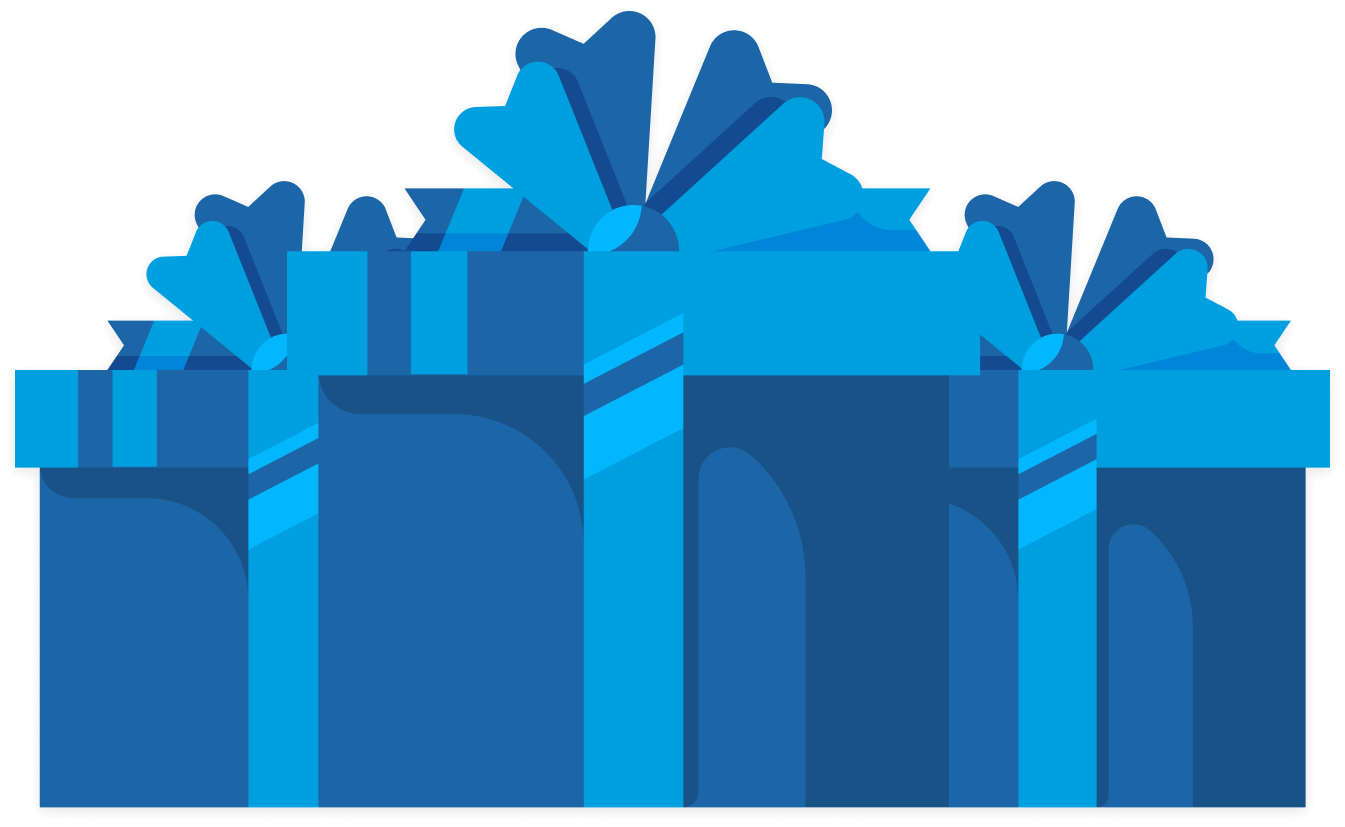
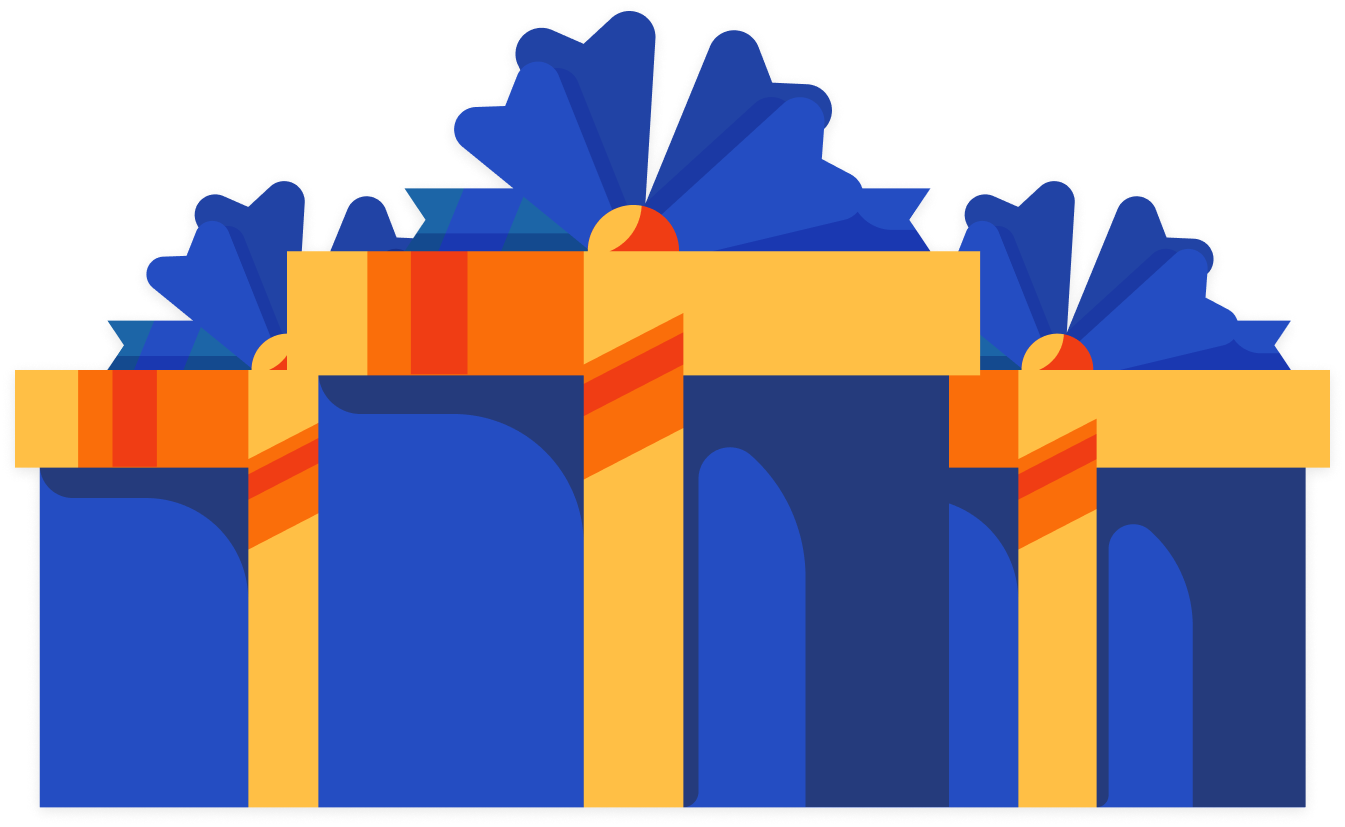
aldi first commit

diff --git a/src/svg.js b/src/svg.js
@@ -25,67 +25,81 @@ export const Machine = (props) => {
   return (
 <svg className="w-30 fade pos-abs" viewBox="0 0 557 851" fill="none" xmlns="http://www.w3.org/2000/svg">
     <g id="machine">
-      <path id="Vector" d="M387 214.6V786.38H412.32C491.9 786.38 556.42 757.23 556.42 721.27V279.71C556.42 243.71 491.9 214.6 412.32 214.6H387Z" fill="#0071CE" />
+      <path id="Vector" d="M387 214.6V786.38H412.32C491.9 786.38 556.42 757.23 556.42 721.27V279.71C556.42 243.71 491.9 214.6 412.32 214.6H387Z" fill="#022999" />
       <g id="Group 71">
-        <path id="Vector_2" d="M466.49 254.098C458.438 263.156 450.386 272.951 442.581 282.205C442.136 282.746 441.889 283.435 441.543 284.026C440.308 287.127 441.247 290.819 443.667 292.886C448.163 292.985 452.51 293.083 457.203 292.886C457.153 292.493 456.808 292.246 456.61 291.902C454.98 289.49 454.98 285.946 456.511 283.534C464.415 273.788 472.566 264.288 480.865 254.541C480.964 254.443 481.112 254.197 480.865 254.098C478.79 254.148 476.715 254.098 474.641 254.049C473.06 254.049 471.528 254 470.046 254C468.861 254 467.675 254 466.49 254.098Z" fill="#00539F" />
-        <path id="Vector_3" d="M475.049 263.122L475 263.606L485.628 276.272C487.704 278.883 490.076 281.252 491.905 284.008C493.24 286.763 492.745 290.438 490.768 292.807L490.818 293H504.016C504.856 292.855 505.301 291.985 505.894 291.356C507.327 288.842 507.426 285.361 505.844 282.944C498.133 273.662 490.274 264.234 482.464 255.048L482.118 255L475.049 263.122Z" fill="#00A0E0" />
-        <path id="Vector_4" d="M469.627 272.351C467.352 277.307 471.847 280.973 473.9 285C475.176 282.418 477.84 280.198 478.616 277.307C480.226 272.918 476.397 269.408 474.066 266C472.512 268.065 470.737 270.13 469.627 272.351Z" fill="#00539F" />
-        <path id="Vector_5" d="M461.87 280C461.323 280 460.776 280 460.229 280L460.08 280.099C459.881 281.73 460.03 283.46 460.776 284.943C462.466 288.255 465.946 289.738 469.624 289.342C471.613 289.639 473.353 291.072 473.8 293C474.397 291.962 475.092 290.43 476.435 289.886C478.97 288.798 482.35 289.836 484.488 288.008C487.172 286.327 488.514 283.114 487.818 280.099C487.122 280.099 486.377 280.099 485.681 280.049C483.096 280 480.411 279.901 478.423 281.335C476.186 282.62 474.745 284.795 473.949 287.118C473.204 285.091 471.961 282.966 470.122 281.73C468.233 280.247 465.797 280.049 463.311 280.049C462.864 280 462.367 280 461.87 280Z" fill="#00539F" />
+        <path id="Vector_2" d="M451.834 247.808C451.834 246.814 452.648 246 453.642 246H495.359C496.367 246 497.167 246.814 497.167 247.808V298.592C497.167 299.599 496.354 300.4 495.359 300.4H453.642C452.635 300.4 451.834 299.586 451.834 298.592V247.808Z" fill="#FFBF45" />
+        <path id="Vector_3" d="M455.914 250.314C455.914 249.81 456.314 249.41 456.818 249.41H492.194C492.697 249.41 493.098 249.81 493.098 250.314V296.112C493.098 296.616 492.697 297.016 492.194 297.016H456.818C456.314 297.016 455.914 296.616 455.914 296.112V250.314Z" fill="#FA6E0A" />
+        <path id="Vector_4" d="M457.955 251.218C457.955 250.973 458.162 250.766 458.407 250.766H490.605C490.851 250.766 491.057 250.973 491.057 251.218V295.208C491.057 295.454 490.851 295.66 490.605 295.66H458.407C458.162 295.66 457.955 295.454 457.955 295.208V251.218Z" fill="#F03D14" />
+        <path id="Vector_5" d="M459.091 251.67C459.091 251.541 459.194 251.438 459.324 251.438H489.701C489.83 251.438 489.933 251.541 489.933 251.67V294.743C489.933 294.872 489.83 294.976 489.701 294.976H459.311C459.181 294.976 459.078 294.872 459.078 294.743V251.67H459.091Z" fill="#001F78" />
+        <path id="Vector_6" d="M487.428 252.806H461.584V278.65H487.428V252.806Z" fill="#00B5DB" />
+        <path id="Vector_7" d="M486.304 253.478H462.721V277.966H486.304V253.478Z" fill="#001F78" />
+        <path id="Vector_8" d="M487.223 282.047H484.407V290.235H487.223V282.047ZM480.558 286.141C480.558 287.717 480.519 288.466 479.615 288.466H479.383V283.842H479.615C480.519 283.829 480.558 284.591 480.558 286.141ZM483.387 286.141C483.387 282.163 482.043 282.06 479.189 282.06H476.567V290.248H479.189C482.056 290.235 483.387 290.119 483.387 286.141ZM475.728 290.235L475.457 288.014H473.429V282.047H470.613V290.235H475.728ZM469.942 290.235L467.578 282.047H464.078L461.676 290.235H464.491L464.711 289.292H466.687L466.919 290.235H469.942ZM466.351 287.562H465.047L465.692 284.243L466.351 287.562Z" fill="white" />
+        <path id="Vector_9" d="M471.233 277.294H469.773L476.27 254.163H477.742L471.233 277.294Z" fill="#00B5DB" />
+        <path id="Vector_10" d="M468.793 277.294H467.32L473.817 254.163H475.289L468.793 277.294Z" fill="#00B5DB" />
+        <path id="Vector_11" d="M466.338 277.294H464.865L471.375 254.163H472.847L466.338 277.294Z" fill="#00B5DB" />
+        <path id="Vector_12" d="M474.307 269.803L474.694 268.447H484.936V269.803H474.307Z" fill="#00B5DB" />
+        <path id="Vector_13" d="M474.953 267.543L475.328 266.174H484.937V267.543H474.953Z" fill="#00B5DB" />
+        <path id="Vector_14" d="M473.674 272.077L474.048 270.708H484.936V272.077H473.674Z" fill="#00B5DB" />
       </g>
-      <path id="Vector 2" opacity="0.25" d="M395.581 761.24H387.191V242.66C389.531 248.88 392.391 253.4 395.581 255.49V761.24Z" fill="white" />
-      <path id="Vector 3" opacity="0.25" d="M544 276.33V292.89C544 262.24 489 237.39 421.19 237.39H399.57V220.84H421.14C488.94 220.84 544 245.67 544 276.33Z" fill="#F7F9FF" />
+      <path id="Vector 2" opacity="0.25" d="M395.579 761.24H387.189V242.66C389.529 248.88 392.389 253.4 395.579 255.49V761.24Z" fill="#00B5DB" />
+      <path id="Vector 3" opacity="0.25" d="M544 276.33V292.89C544 262.24 489 237.39 421.19 237.39H399.57V220.84H421.14C488.94 220.84 544 245.67 544 276.33Z" fill="#00B5DB" />
       <path id="Vector 4" opacity="0.25" d="M556.44 696.13V721.27C556.44 757.27 491.92 786.38 412.34 786.38H387V761.24H412.32C491.92 761.24 556.44 732.1 556.44 696.13Z" fill="#181818" />
       <path id="Vector 5" opacity="0.25" d="M556.44 696.13V721.27C556.44 757.27 491.92 786.38 412.34 786.38H387V761.24H412.32C491.92 761.24 556.44 732.1 556.44 696.13Z" fill="#181818" />
-      <path id="Vector 6" opacity="0.25" d="M541.69 311.48C544.83 311.48 547.37 309.42 547.37 306.88C547.37 304.34 544.83 302.29 541.69 302.29C538.55 302.29 536.02 304.35 536.02 306.88C536.02 309.41 538.56 311.48 541.69 311.48Z" fill="#F7F9FF" />
-      <path id="dropHeight" d="M478.391 313.38H468.801V687.58H478.391V313.38Z" fill="#00579F" />
+      <path id="Vector 6" opacity="0.25" d="M541.69 306.19C544.83 306.19 547.37 304.13 547.37 301.59C547.37 299.05 544.83 297 541.69 297C538.55 297 536.02 299.06 536.02 301.59C536.02 304.12 538.56 306.19 541.69 306.19Z" fill="#00B5DB" />
+      <path id="dropHeight" d="M478.391 313.38H468.801V687.58H478.391V313.38Z" fill="#001F78" />
       <g id="pull" className="hov trans" onClick={ctr === 1 ? clicked : undefined}>
-        <path id="Vector 7" d="M544.71 332.31V365.14C544.72 365.303 544.72 365.467 544.71 365.63V366.47C544.37 371.369 542.179 375.955 538.582 379.297C534.985 382.64 530.251 384.489 525.34 384.47H427.34C422.455 384.482 417.746 382.645 414.158 379.328C410.571 376.012 408.371 371.461 408 366.59C408 366.18 408 365.76 408 365.35V332.35C408.004 329.803 408.51 327.282 409.489 324.931C410.467 322.58 411.9 320.445 413.705 318.648C415.509 316.851 417.65 315.427 420.005 314.458C422.36 313.489 424.883 312.993 427.43 313H525.32C530.449 313.005 535.367 315.04 539 318.66C542.633 322.28 544.686 327.191 544.71 332.32V332.31Z" fill="#51678D" />
-        <path id="Vector 8" d="M542.269 329.76V361.5C542.289 361.656 542.289 361.814 542.269 361.97V362.79C541.929 367.503 539.822 371.913 536.37 375.14C532.917 378.366 528.374 380.17 523.649 380.19H429.429C424.724 380.17 420.198 378.382 416.749 375.181C413.3 371.98 411.18 367.601 410.809 362.91C410.809 362.51 410.809 362.11 410.809 361.71V329.76C410.806 327.296 411.29 324.855 412.232 322.578C413.174 320.301 414.555 318.231 416.298 316.489C418.04 314.746 420.11 313.365 422.387 312.423C424.664 311.481 427.105 310.997 429.569 311H523.569C528.536 311.013 533.295 312.996 536.802 316.512C540.309 320.029 542.279 324.793 542.279 329.76H542.269Z" fill="#00A0E0" />
-        <path id="Vector 9" d="M533.322 319.32C531.073 317.122 528.047 315.9 524.902 315.92H428.112C426.537 315.888 424.971 316.163 423.502 316.73C421.29 317.59 419.382 319.086 418.021 321.03C416.659 322.973 415.904 325.277 415.852 327.65V365.16C415.863 366.176 416.014 367.186 416.302 368.16C416.835 369.986 417.795 371.658 419.102 373.04C420.243 374.259 421.625 375.227 423.161 375.881C424.697 376.535 426.353 376.862 428.022 376.84H524.802C527.434 376.853 530 376.011 532.112 374.44C532.723 373.992 533.286 373.483 533.792 372.92C535.064 371.561 536.002 369.924 536.532 368.14C536.811 367.165 536.953 366.155 536.952 365.14V327.65C536.881 324.505 535.577 321.513 533.322 319.32ZM534.532 362.7C534.527 364.411 534.137 366.099 533.392 367.64C532.647 369.193 531.564 370.56 530.222 371.64C527.992 373.424 525.218 374.391 522.362 374.38H430.622C427.728 374.383 424.921 373.39 422.672 371.57C421.34 370.501 420.264 369.148 419.522 367.61C418.78 366.072 418.39 364.388 418.382 362.68V330.06C418.419 327.667 419.187 325.342 420.583 323.397C421.979 321.452 423.936 319.981 426.192 319.18C427.596 318.671 429.078 318.411 430.572 318.41H522.322C523.803 318.41 525.272 318.67 526.662 319.18C528.938 319.972 530.915 321.446 532.324 323.402C533.732 325.357 534.503 327.7 534.532 330.11V362.7Z" fill="#51678D" />
-        <path id="Vector 10" opacity="0.3" d="M539.499 326.26V329.15C539.575 325.705 538.28 322.371 535.899 319.88C534.721 318.645 533.311 317.656 531.749 316.97C530.187 316.283 528.505 315.913 526.799 315.88H426.209C424.502 315.915 422.818 316.286 421.254 316.972C419.69 317.658 418.277 318.645 417.095 319.878C415.913 321.11 414.985 322.563 414.365 324.154C413.744 325.745 413.443 327.443 413.479 329.15V326.26C413.409 322.814 414.711 319.481 417.098 316.994C419.486 314.508 422.763 313.071 426.209 313H526.799C530.242 313.079 533.513 314.52 535.894 317.008C538.275 319.496 539.571 322.827 539.499 326.27V326.26Z" fill="#F7F9FF" />
-        <path id="Vector 11" opacity="0.15" d="M541.929 363.18C541.586 367.891 539.478 372.299 536.026 375.523C532.574 378.747 528.033 380.55 523.309 380.57H429.179C424.474 380.55 419.948 378.762 416.499 375.561C413.05 372.36 410.93 367.981 410.559 363.29C410.85 365.726 411.957 367.992 413.699 369.72C415.505 371.57 417.813 372.849 420.339 373.4C421.457 373.684 422.606 373.825 423.759 373.82H528.759C529.911 373.822 531.059 373.688 532.179 373.42C534.717 372.864 537.034 371.569 538.839 369.7C540.574 367.933 541.672 365.639 541.959 363.18H541.929Z" fill="#212121" />
-        <path id="Vector 12" d="M443.612 356.77C442.205 356.441 440.87 355.859 439.672 355.05L441.672 350.65C442.702 351.298 443.816 351.803 444.982 352.15C446.178 352.533 447.426 352.729 448.682 352.73C451.032 352.73 452.132 352.15 452.132 351C452.125 350.698 452.027 350.406 451.852 350.16C451.675 349.917 451.427 349.735 451.142 349.64C450.116 349.247 449.059 348.94 447.982 348.72C446.624 348.448 445.288 348.08 443.982 347.62C442.922 347.231 441.978 346.577 441.242 345.72C440.425 344.74 440.013 343.484 440.092 342.21C440.078 340.957 440.444 339.73 441.142 338.69C441.936 337.578 443.038 336.723 444.312 336.23C445.957 335.571 447.721 335.258 449.492 335.31C450.872 335.316 452.247 335.474 453.592 335.78C454.852 336.061 456.062 336.529 457.182 337.17L455.332 341.62C453.52 340.597 451.482 340.04 449.402 340C448.502 339.937 447.602 340.124 446.802 340.54C446.556 340.679 446.35 340.879 446.202 341.12C446.06 341.363 445.984 341.639 445.982 341.92C445.989 342.205 446.083 342.481 446.252 342.71C446.43 342.935 446.67 343.102 446.942 343.19C447.96 343.581 449.011 343.878 450.082 344.08C451.442 344.341 452.78 344.709 454.082 345.18C455.142 345.577 456.091 346.222 456.852 347.06C457.676 348.037 458.095 349.293 458.022 350.57C458.039 351.79 457.683 352.987 457.002 354C456.186 355.071 455.078 355.883 453.812 356.34C452.189 357.015 450.439 357.336 448.682 357.28C447 357.324 445.32 357.153 443.682 356.77H443.612Z" fill="white" />
+        <path id="Vector 7" d="M544.71 332.31V365.14C544.72 365.303 544.72 365.467 544.71 365.63V366.47C544.37 371.369 542.179 375.955 538.582 379.297C534.985 382.64 530.251 384.489 525.34 384.47H427.34C422.455 384.482 417.746 382.645 414.158 379.328C410.571 376.012 408.371 371.461 408 366.59C408 366.18 408 365.76 408 365.35V332.35C408.004 329.803 408.51 327.282 409.489 324.931C410.467 322.58 411.9 320.445 413.705 318.648C415.509 316.851 417.65 315.427 420.005 314.458C422.36 313.489 424.883 312.993 427.43 313H525.32C530.449 313.005 535.367 315.04 539 318.66C542.633 322.28 544.686 327.191 544.71 332.32V332.31Z" fill="#FFBF45" />
+        <path id="Vector 8" d="M542.271 329.76V361.5C542.291 361.656 542.291 361.814 542.271 361.97V362.79C541.931 367.503 539.824 371.913 536.372 375.14C532.919 378.366 528.376 380.17 523.651 380.19H429.431C424.726 380.17 420.2 378.382 416.751 375.181C413.302 371.98 411.182 367.601 410.811 362.91C410.811 362.51 410.811 362.11 410.811 361.71V329.76C410.808 327.296 411.292 324.855 412.234 322.578C413.176 320.301 414.557 318.231 416.3 316.489C418.042 314.746 420.112 313.365 422.389 312.423C424.666 311.481 427.107 310.997 429.571 311H523.571C528.538 311.013 533.297 312.996 536.804 316.512C540.311 320.029 542.281 324.793 542.281 329.76H542.271Z" fill="#001F78" />
+        <path id="Vector 9" d="M533.32 319.32C531.071 317.122 528.045 315.9 524.9 315.92H428.11C426.535 315.888 424.969 316.163 423.5 316.73C421.288 317.59 419.38 319.086 418.019 321.03C416.657 322.973 415.902 325.277 415.85 327.65V365.16C415.861 366.176 416.012 367.186 416.3 368.16C416.833 369.986 417.793 371.658 419.1 373.04C420.241 374.259 421.623 375.227 423.159 375.881C424.695 376.535 426.351 376.862 428.02 376.84H524.8C527.432 376.853 529.998 376.011 532.11 374.44C532.721 373.992 533.284 373.483 533.79 372.92C535.062 371.561 536 369.924 536.53 368.14C536.809 367.165 536.951 366.155 536.95 365.14V327.65C536.879 324.505 535.575 321.513 533.32 319.32ZM534.53 362.7C534.525 364.411 534.135 366.099 533.39 367.64C532.645 369.193 531.562 370.56 530.22 371.64C527.99 373.424 525.216 374.391 522.36 374.38H430.62C427.726 374.383 424.919 373.39 422.67 371.57C421.338 370.501 420.262 369.148 419.52 367.61C418.778 366.072 418.388 364.388 418.38 362.68V330.06C418.417 327.667 419.185 325.342 420.581 323.397C421.977 321.452 423.934 319.981 426.19 319.18C427.594 318.671 429.076 318.411 430.57 318.41H522.32C523.801 318.41 525.27 318.67 526.66 319.18C528.936 319.972 530.913 321.446 532.322 323.402C533.73 325.357 534.501 327.7 534.53 330.11V362.7Z" fill="#FFBF45" />
+        <path id="Vector 10" opacity="0.3" d="M539.499 326.26V329.15C539.575 325.705 538.28 322.371 535.899 319.88C534.721 318.645 533.311 317.656 531.749 316.97C530.187 316.283 528.505 315.913 526.799 315.88H426.209C424.502 315.915 422.818 316.286 421.254 316.972C419.69 317.658 418.277 318.645 417.095 319.878C415.913 321.11 414.985 322.563 414.365 324.154C413.744 325.745 413.443 327.443 413.479 329.15V326.26C413.409 322.814 414.711 319.481 417.098 316.994C419.486 314.508 422.763 313.071 426.209 313H526.799C530.242 313.079 533.513 314.52 535.894 317.008C538.275 319.496 539.571 322.827 539.499 326.27V326.26Z" fill="white" />
+        <path id="Vector 11" opacity="0.15" d="M541.931 363.18C541.588 367.891 539.48 372.299 536.028 375.523C532.576 378.747 528.035 380.55 523.311 380.57H429.181C424.476 380.55 419.95 378.762 416.501 375.561C413.052 372.36 410.932 367.981 410.561 363.29C410.852 365.726 411.959 367.992 413.701 369.72C415.507 371.57 417.815 372.849 420.341 373.4C421.459 373.684 422.608 373.825 423.761 373.82H528.761C529.913 373.822 531.061 373.688 532.181 373.42C534.719 372.864 537.036 371.569 538.841 369.7C540.576 367.933 541.674 365.639 541.961 363.18H541.931Z" fill="#212121" />
+        <path id="Vector 12" d="M443.61 356.77C442.203 356.441 440.868 355.859 439.67 355.05L441.67 350.65C442.7 351.298 443.814 351.803 444.98 352.15C446.176 352.533 447.424 352.729 448.68 352.73C451.03 352.73 452.13 352.15 452.13 351C452.123 350.698 452.025 350.406 451.85 350.16C451.673 349.917 451.425 349.735 451.14 349.64C450.114 349.247 449.057 348.94 447.98 348.72C446.622 348.448 445.286 348.08 443.98 347.62C442.92 347.231 441.976 346.577 441.24 345.72C440.423 344.74 440.011 343.484 440.09 342.21C440.076 340.957 440.442 339.73 441.14 338.69C441.934 337.578 443.036 336.723 444.31 336.23C445.955 335.571 447.719 335.258 449.49 335.31C450.87 335.316 452.245 335.474 453.59 335.78C454.85 336.061 456.06 336.529 457.18 337.17L455.33 341.62C453.518 340.597 451.48 340.04 449.4 340C448.5 339.937 447.6 340.124 446.8 340.54C446.554 340.679 446.348 340.879 446.2 341.12C446.058 341.363 445.982 341.639 445.98 341.92C445.987 342.205 446.081 342.481 446.25 342.71C446.428 342.935 446.668 343.102 446.94 343.19C447.958 343.581 449.009 343.878 450.08 344.08C451.44 344.341 452.778 344.709 454.08 345.18C455.14 345.577 456.089 346.222 456.85 347.06C457.674 348.037 458.093 349.293 458.02 350.57C458.037 351.79 457.681 352.987 457 354C456.184 355.071 455.076 355.883 453.81 356.34C452.187 357.015 450.437 357.336 448.68 357.28C446.998 357.324 445.318 357.153 443.68 356.77H443.61Z" fill="white" />
         <path id="Vector 13" d="M478.759 339.44C478.639 339.26 478.519 339.09 478.389 338.92C477.63 337.946 476.635 337.182 475.499 336.7C473.92 336.022 472.217 335.681 470.499 335.7H460.789V357H466.789V351.44H470.449C472.168 351.472 473.874 351.131 475.449 350.44C476.582 349.962 477.576 349.205 478.339 348.24C478.471 348.08 478.595 347.913 478.709 347.74C479.472 346.487 479.876 345.047 479.876 343.58C479.876 342.113 479.472 340.673 478.709 339.42L478.759 339.44ZM473.649 344.82C473.489 345.227 473.239 345.592 472.919 345.89C472.114 346.443 471.142 346.698 470.169 346.61H466.819V340.38H470.129C471.127 340.311 472.117 340.602 472.919 341.2C473.242 341.496 473.491 341.862 473.649 342.27C473.808 342.674 473.88 343.107 473.859 343.54C473.891 343.977 473.819 344.416 473.649 344.82Z" fill="white" />
         <path id="Vector 14" d="M482.84 335.73H488.84V357H482.84V335.73Z" fill="white" />
-        <path id="Vector 15" d="M513.312 335.73V357H508.372L499.002 345.65V357H493.102V335.73H498.052L507.432 347.06V335.73H513.312Z" fill="white" />
+        <path id="Vector 15" d="M513.31 335.73V357H508.37L499 345.65V357H493.1V335.73H498.05L507.43 347.06V335.73H513.31Z" fill="white" />
       </g>
-      <path id="Vector_2_2" d="M387.47 214.6C383.454 196.533 373.398 180.375 358.96 168.793C344.523 157.212 326.568 150.9 308.06 150.9H81.34C59.769 150.9 39.0814 159.468 23.8275 174.72C8.57355 189.972 0.00265195 210.659 0 232.23V768.77C0.00265195 790.341 8.57355 811.028 23.8275 826.28C39.0814 841.532 59.769 850.1 81.34 850.1H308.06C318.744 850.113 329.326 848.018 339.199 843.936C349.073 839.853 358.044 833.863 365.598 826.308C373.153 818.754 379.143 809.783 383.226 799.909C387.308 790.036 389.403 779.454 389.39 768.77V232.23C389.395 226.301 388.751 220.389 387.47 214.6ZM343.65 757.94C343.65 787.29 320.86 811.04 292.72 811.04H96.72C68.58 811.04 45.79 787.29 45.79 757.94V510.39L60.49 495.69L45.79 481V245.36C45.79 216.03 68.6 192.26 96.72 192.26H292.72C320.86 192.26 343.65 216.03 343.65 245.36V757.94Z" fill="#0071CE" />
-      <path id="Vector 17" opacity="0.2" d="M351.562 214.79C347.403 204.722 340.348 196.116 331.291 190.063C322.235 184.01 311.585 180.783 300.692 180.79H88.7419C81.5092 180.79 74.3473 182.215 67.6653 184.983C60.9832 187.751 54.9119 191.808 49.798 196.923C44.6842 202.038 40.628 208.11 37.861 214.793C35.0941 221.475 33.6706 228.637 33.6719 235.87V767.43C33.6706 774.663 35.0941 781.825 37.861 788.507C40.628 795.19 44.6842 801.262 49.798 806.377C54.9119 811.492 60.9832 815.549 67.6653 818.317C74.3473 821.085 81.5092 822.51 88.7419 822.51H300.742C307.974 822.509 315.135 821.083 321.816 818.314C328.497 815.545 334.567 811.488 339.679 806.373C344.792 801.259 348.848 795.187 351.614 788.505C354.38 781.823 355.803 774.662 355.802 767.43V235.87C355.789 228.633 354.349 221.469 351.562 214.79ZM343.652 757.94C343.652 787.29 320.862 811.04 292.722 811.04H96.7219C68.5819 811.04 45.7919 787.29 45.7919 757.94V245.36C45.7919 216.03 68.6019 192.26 96.7219 192.26H292.722C320.862 192.26 343.652 216.03 343.652 245.36V757.94Z" fill="white" />
+      <path id="Vector_2_2" d="M387.47 214.6C383.454 196.533 373.398 180.375 358.96 168.793C344.523 157.212 326.568 150.9 308.06 150.9H81.34C59.769 150.9 39.0814 159.468 23.8275 174.72C8.57355 189.972 0.00265195 210.659 0 232.23V768.77C0.00265195 790.341 8.57355 811.028 23.8275 826.28C39.0814 841.532 59.769 850.1 81.34 850.1H308.06C318.744 850.113 329.326 848.018 339.199 843.936C349.073 839.853 358.044 833.863 365.598 826.308C373.153 818.754 379.143 809.783 383.226 799.909C387.308 790.036 389.403 779.454 389.39 768.77V232.23C389.395 226.301 388.751 220.389 387.47 214.6ZM343.65 757.94C343.65 787.29 320.86 811.04 292.72 811.04H96.72C68.58 811.04 45.79 787.29 45.79 757.94V510.39L60.49 495.69L45.79 481V245.36C45.79 216.03 68.6 192.26 96.72 192.26H292.72C320.86 192.26 343.65 216.03 343.65 245.36V757.94Z" fill="#022999" />
+      <path id="Vector 17" opacity="0.2" d="M351.56 214.79C347.401 204.722 340.346 196.116 331.289 190.063C322.233 184.01 311.583 180.783 300.69 180.79H88.7399C81.5072 180.79 74.3453 182.215 67.6633 184.983C60.9812 187.751 54.9099 191.808 49.796 196.923C44.6822 202.038 40.626 208.11 37.859 214.793C35.0921 221.475 33.6686 228.637 33.6699 235.87V767.43C33.6686 774.663 35.0921 781.825 37.859 788.507C40.626 795.19 44.6822 801.262 49.796 806.377C54.9099 811.492 60.9812 815.549 67.6633 818.317C74.3453 821.085 81.5072 822.51 88.7399 822.51H300.74C307.972 822.509 315.133 821.083 321.814 818.314C328.495 815.545 334.565 811.488 339.677 806.373C344.79 801.259 348.846 795.187 351.612 788.505C354.378 781.823 355.801 774.662 355.8 767.43V235.87C355.787 228.633 354.347 221.469 351.56 214.79ZM343.65 757.94C343.65 787.29 320.86 811.04 292.72 811.04H96.7199C68.5799 811.04 45.7899 787.29 45.7899 757.94V245.36C45.7899 216.03 68.5999 192.26 96.7199 192.26H292.72C320.86 192.26 343.65 216.03 343.65 245.36V757.94Z" fill="white" />
       <g id="spinCont">
-        <path id="glass" opacity="0.5" d="M355.752 235.87V767.43C355.753 774.662 354.33 781.823 351.564 788.505C348.798 795.187 344.742 801.259 339.63 806.373C334.517 811.488 328.447 815.545 321.766 818.314C315.085 821.083 307.924 822.509 300.692 822.51H88.7419C81.5092 822.51 74.3473 821.085 67.6653 818.317C60.9832 815.549 54.9119 811.492 49.798 806.377C44.6842 801.262 40.628 795.19 37.861 788.507C35.0941 781.825 33.6706 774.663 33.6719 767.43V235.87C33.6706 228.637 35.0941 221.475 37.861 214.793C40.628 208.11 44.6842 202.038 49.798 196.923C54.9119 191.808 60.9832 187.751 67.6653 184.983C74.3473 182.215 81.5092 180.79 88.7419 180.79H300.742C307.974 180.791 315.135 182.217 321.816 184.986C328.497 187.755 334.567 191.812 339.679 196.927C344.792 202.041 348.848 208.113 351.614 214.795C354.38 221.477 355.803 228.638 355.802 235.87H355.752Z" fill="#CBFCFF" />
+        <g id="glass" opacity="0.5">
+          <mask id="path-32-inside-1_442_286" fill="white">
+            <path d="M355.75 235.87V767.43C355.751 774.662 354.328 781.823 351.562 788.505C348.796 795.187 344.74 801.259 339.628 806.373C334.515 811.488 328.445 815.545 321.764 818.314C315.083 821.083 307.922 822.509 300.69 822.51H88.7399C81.5072 822.51 74.3453 821.085 67.6633 818.317C60.9812 815.549 54.9099 811.492 49.796 806.377C44.6822 801.262 40.626 795.19 37.859 788.507C35.0921 781.825 33.6686 774.663 33.6699 767.43V235.87C33.6686 228.637 35.0921 221.475 37.859 214.793C40.626 208.11 44.6822 202.038 49.796 196.923C54.9099 191.808 60.9812 187.751 67.6633 184.983C74.3453 182.215 81.5072 180.79 88.7399 180.79H300.74C307.972 180.791 315.133 182.217 321.814 184.986C328.495 187.755 334.565 191.812 339.677 196.927C344.79 202.041 348.846 208.113 351.612 214.795C354.378 221.477 355.801 228.638 355.8 235.87H355.75Z" />
+          </mask>
+          <path d="M355.75 235.87V767.43C355.751 774.662 354.328 781.823 351.562 788.505C348.796 795.187 344.74 801.259 339.628 806.373C334.515 811.488 328.445 815.545 321.764 818.314C315.083 821.083 307.922 822.509 300.69 822.51H88.7399C81.5072 822.51 74.3453 821.085 67.6633 818.317C60.9812 815.549 54.9099 811.492 49.796 806.377C44.6822 801.262 40.626 795.19 37.859 788.507C35.0921 781.825 33.6686 774.663 33.6699 767.43V235.87C33.6686 228.637 35.0921 221.475 37.859 214.793C40.626 208.11 44.6822 202.038 49.796 196.923C54.9099 191.808 60.9812 187.751 67.6633 184.983C74.3453 182.215 81.5072 180.79 88.7399 180.79H300.74C307.972 180.791 315.133 182.217 321.814 184.986C328.495 187.755 334.565 191.812 339.677 196.927C344.79 202.041 348.846 208.113 351.612 214.795C354.378 221.477 355.801 228.638 355.8 235.87H355.75Z" fill="#CBFCFF" stroke="#007DB6" stroke-width="6" mask="url(#path-32-inside-1_442_286)" />
+        </g>
         <g className=" h-30 w-30 door ovr-hide trans flx">
             <g className="boxes"></g>
         </g>
-        <path id="Vector 18" opacity="0.5" d="M355.752 270.78V331.1L253.332 180.79H294.442L355.752 270.78Z" fill="#F7F9FF" />
-        <path id="Vector 19" opacity="0.5" d="M157.791 820.16H116.691L33.6914 698.34V638L157.791 820.16Z" fill="#F7F9FF" />
-        <path id="Vector 20" opacity="0.5" d="M355.75 349.65V375.49L223.07 180.79H240.67L355.75 349.65Z" fill="#F7F9FF" />
-        <path id="Vector 21" opacity="0.5" d="M89.7319 657.87V683.71L33.6719 601.43V575.6L89.7319 657.87Z" fill="#F7F9FF" />
+        <path id="Vector 18" opacity="0.5" d="M355.75 270.78V331.1L253.33 180.79H294.44L355.75 270.78Z" fill="white" />
+        <path id="Vector 19" opacity="0.5" d="M157.789 820.16H116.689L33.6895 698.34V638L157.789 820.16Z" fill="white" />
+        <path id="Vector 20" opacity="0.5" d="M355.75 349.65V375.49L223.07 180.79H240.67L355.75 349.65Z" fill="white" />
+        <path id="Vector 21" opacity="0.5" d="M89.7299 657.87V683.71L33.6699 601.43V575.6L89.7299 657.87Z" fill="white" />
       </g>
       <g id="pointer">
-        <path id="Vector_3_2" d="M60.49 495.69L0 556.18V435.2L60.49 495.69Z" fill="#00A0E0" />
-        <path id="Vector_4_2" opacity="0.45" d="M60.49 495.69L0 556.18V549.78L33.67 519.67L45.79 508.83L60.49 495.69Z" fill="#AD5A1E" />
-        <path id="Vector 24" opacity="0.45" d="M54.5614 492.75L55.3414 491.97L6.72141 443.35L5.94141 444.13L54.5614 492.75Z" fill="#F7F9FF" />
+        <path id="Vector_3_2" d="M60.49 495.69L0 556.18V435.2L60.49 495.69Z" fill="#001F78" />
+        <path id="Vector_4_2" d="M60.49 495.69L0 556.18V549.78L33.67 519.67L45.79 508.83L60.49 495.69Z" fill="#FFBF45" />
+        <path id="Vector 24" d="M54.5614 494.4L55.3414 493.62L6.72141 445L5.94141 445.78L54.5614 494.4Z" fill="#FFBF45" />
       </g>
-      <path id="Vector 25" d="M330.608 0H58.7981C55.6897 0 52.7087 1.23478 50.5108 3.43271C48.3128 5.63063 47.0781 8.61166 47.0781 11.72V112.8C47.0781 115.908 48.3128 118.889 50.5108 121.087C52.7087 123.285 55.6897 124.52 58.7981 124.52H330.608C333.716 124.52 336.697 123.285 338.895 121.087C341.093 118.889 342.328 115.908 342.328 112.8V11.72C342.328 8.61166 341.093 5.63063 338.895 3.43271C336.697 1.23478 333.716 0 330.608 0Z" fill="#00A0E0" />
-      <g id="Vector 34" filter="url(#filter0_i_420_1953)">
-        <path d="M335.281 19.41V105.13C335.278 108.238 334.043 111.219 331.846 113.418C329.649 115.617 326.669 116.855 323.561 116.86H65.8411C62.7318 116.857 59.7508 115.62 57.5532 113.421C55.3556 111.221 54.1211 108.239 54.1211 105.13V19.41C54.1198 17.6728 54.506 15.9572 55.2516 14.3882C55.9972 12.8191 57.0834 11.4362 58.4311 10.34C59.2597 9.64958 60.1822 9.08055 61.1711 8.65002C62.6512 8.00453 64.2464 7.66441 65.8611 7.65002H323.561C326.669 7.65267 329.648 8.8883 331.845 11.0856C334.043 13.283 335.278 16.2625 335.281 19.37V19.41Z" fill="#00A0E0" />
+      <path id="Vector 25" d="M330.61 0H58.8001C55.6917 0 52.7107 1.23478 50.5128 3.43271C48.3148 5.63063 47.0801 8.61166 47.0801 11.72V112.8C47.0801 115.908 48.3148 118.889 50.5128 121.087C52.7107 123.285 55.6917 124.52 58.8001 124.52H330.61C333.718 124.52 336.699 123.285 338.897 121.087C341.095 118.889 342.33 115.908 342.33 112.8V11.72C342.33 8.61166 341.095 5.63063 338.897 3.43271C336.699 1.23478 333.718 0 330.61 0Z" fill="#001F78" />
+      <g id="Vector 34" filter="url(#filter0_i_442_286)">
+        <path d="M335.281 19.4099V105.13C335.278 108.238 334.043 111.219 331.846 113.418C329.649 115.617 326.669 116.855 323.561 116.86H65.8411C62.7318 116.857 59.7508 115.62 57.5532 113.421C55.3556 111.221 54.1211 108.239 54.1211 105.13V19.4099C54.1198 17.6727 54.506 15.9571 55.2516 14.3881C55.9972 12.819 57.0834 11.4361 58.4311 10.3399C59.2597 9.64946 60.1822 9.08043 61.1711 8.6499C62.6512 8.00441 64.2464 7.66429 65.8611 7.6499H323.561C326.669 7.65255 329.648 8.88818 331.845 11.0855C334.043 13.2829 335.278 16.2624 335.281 19.3699V19.4099Z" fill="#001F78" />
       </g>
-      <path id="Vector 26" d="M109.8 124.52H99V150.9H109.8V124.52Z" fill="#51678D" />
-      <path id="Vector 27" d="M294.79 124.52H284V150.9H294.79V124.52Z" fill="#51678D" />
+      <path id="Vector 26" d="M109.8 124.52H99V150.9H109.8V124.52Z" fill="#001B66" />
+      <path id="Vector 27" d="M294.79 124.52H284V150.9H294.79V124.52Z" fill="#001B66" />
       <g id="blink">
-        <path id="Vector 28" d="M77.4881 81.8001C74.8508 81.1773 72.343 80.0977 70.0781 78.6101L73.7881 70.34C77.7337 72.82 82.2788 74.1819 86.9381 74.2801C91.2781 74.2801 93.4281 73.1801 93.4281 71.0201C93.4242 70.4576 93.2435 69.9105 92.9115 69.4565C92.5794 69.0024 92.1129 68.6643 91.5781 68.4901C89.635 67.7291 87.6267 67.1467 85.5781 66.7501C83.029 66.2296 80.5195 65.5312 78.0681 64.6601C76.0451 63.8951 74.2539 62.6206 72.8681 60.9601C71.3499 59.1027 70.5796 56.7456 70.7081 54.3501C70.6835 52.0066 71.3819 49.7125 72.7081 47.7801C74.2073 45.6645 76.2931 44.0342 78.7081 43.0901C81.7962 41.871 85.0992 41.2893 88.4181 41.3801C91.0291 41.3797 93.6319 41.6716 96.1781 42.2501C98.5365 42.783 100.804 43.659 102.908 44.8501L99.4081 53.3601C96.0495 51.4482 92.2713 50.3938 88.4081 50.2901C86.7133 50.1571 85.0152 50.5037 83.5081 51.2901C83.0462 51.5453 82.6599 51.9179 82.3881 52.3701C82.1122 52.8222 81.9637 53.3405 81.9581 53.8701C81.9819 54.402 82.1709 54.9133 82.4989 55.3327C82.8269 55.7521 83.2776 56.0588 83.7881 56.2101C85.686 56.9453 87.6476 57.5043 89.6481 57.8801C92.1975 58.4118 94.7069 59.1202 97.1581 60.0001C99.1478 60.7395 100.926 61.9549 102.338 63.5401C103.889 65.3742 104.679 67.7319 104.548 70.1301C104.573 72.4489 103.874 74.7177 102.548 76.6201C101.029 78.7168 98.9495 80.3424 96.5481 81.3101C93.4746 82.5176 90.189 83.0924 86.8881 83.0001C83.7158 83.0115 80.5557 82.6081 77.4881 81.8001Z" fill="white" />
-        <path id="Vector 29" d="M143.517 49.29C142.014 47.0001 139.877 45.1968 137.367 44.1C134.4 42.8254 131.196 42.1949 127.967 42.25H109.727V82.11H120.997V71.67H127.997C131.215 71.7489 134.412 71.1422 137.377 69.89C139.254 69.0732 140.931 67.8561 142.289 66.3239C143.647 64.7917 144.654 62.9814 145.24 61.0195C145.826 59.0576 145.976 56.9914 145.68 54.9654C145.384 52.9394 144.649 51.0024 143.527 49.29H143.517ZM133.887 59.43C133.59 60.1932 133.121 60.8777 132.517 61.43C131.015 62.5552 129.16 63.1051 127.287 62.98H120.997V51.21H127.277C129.146 51.0709 131.003 51.6106 132.507 52.73C133.1 53.2806 133.565 53.9546 133.869 54.7045C134.173 55.4544 134.309 56.2619 134.267 57.07C134.316 57.8751 134.186 58.6811 133.887 59.43Z" fill="white" />
-        <path id="Vector 30" d="M151.156 42.3201H162.436V82.1801H151.156V42.3201Z" fill="white" />
-        <path id="Vector 31" d="M208.409 42.3201V82.1801H198.999L181.519 61.0001V82.2301H170.449V42.3701H179.829L197.419 63.6101V42.3201H208.409Z" fill="white" />
-        <path id="Vector 32" d="M269 82.2V61.1L258.73 78.31H253.73L243.53 61.69V82.25H233V42.39H242.38L256.45 65.39L270.12 42.39H279.49V82.25L269 82.2Z" fill="white" />
-        <path id="Vector 33" d="M319.34 73.4801V82.2001H287.34V42.3401H318.62V51.0701H298.49V57.7701H316.22V66.2101H298.49V73.5001L319.34 73.4801Z" fill="white" />
+        <path id="Vector 28" d="M77.4901 81.7998C74.8528 81.177 72.345 80.0974 70.0801 78.6098L73.7901 70.3398C77.7357 72.8198 82.2808 74.1816 86.9401 74.2798C91.2801 74.2798 93.4301 73.1798 93.4301 71.0198C93.4262 70.4573 93.2455 69.9102 92.9135 69.4562C92.5814 69.0021 92.1149 68.664 91.5801 68.4898C89.637 67.7288 87.6287 67.1464 85.5801 66.7498C83.031 66.2293 80.5215 65.5309 78.0701 64.6598C76.0471 63.8948 74.2559 62.6203 72.8701 60.9598C71.3519 59.1024 70.5816 56.7453 70.7101 54.3498C70.6855 52.0063 71.3839 49.7122 72.7101 47.7798C74.2093 45.6642 76.2951 44.0339 78.7101 43.0898C81.7982 41.8707 85.1012 41.289 88.4201 41.3798C91.0311 41.3794 93.6339 41.6713 96.1801 42.2498C98.5385 42.7827 100.806 43.6587 102.91 44.8498L99.4101 53.3598C96.0515 51.4479 92.2733 50.3935 88.4101 50.2898C86.7153 50.1568 85.0172 50.5034 83.5101 51.2898C83.0482 51.545 82.6619 51.9176 82.3901 52.3698C82.1142 52.8219 81.9657 53.3402 81.9601 53.8698C81.9839 54.4017 82.1729 54.913 82.5009 55.3324C82.8289 55.7518 83.2796 56.0585 83.7901 56.2098C85.688 56.945 87.6496 57.504 89.6501 57.8798C92.1995 58.4115 94.7089 59.1199 97.1601 59.9998C99.1498 60.7392 100.928 61.9546 102.34 63.5398C103.891 65.3739 104.681 67.7316 104.55 70.1298C104.575 72.4486 103.876 74.7174 102.55 76.6198C101.031 78.7165 98.9515 80.3421 96.5501 81.3098C93.4766 82.5173 90.191 83.0921 86.8901 82.9998C83.7178 83.0112 80.5577 82.6078 77.4901 81.7998Z" fill="#FFBF45" />
+        <path id="Vector 29" d="M143.52 49.2899C142.017 47 139.88 45.1967 137.37 44.0999C134.403 42.8253 131.199 42.1948 127.97 42.2499H109.73V82.1099H121V71.6699H128C131.218 71.7488 134.415 71.1421 137.38 69.8899C139.257 69.0731 140.934 67.856 142.292 66.3238C143.65 64.7916 144.657 62.9813 145.243 61.0194C145.829 59.0575 145.979 56.9913 145.683 54.9653C145.387 52.9393 144.652 51.0023 143.53 49.2899H143.52ZM133.89 59.4299C133.593 60.1931 133.124 60.8776 132.52 61.4299C131.018 62.5551 129.163 63.105 127.29 62.9799H121V51.2099H127.28C129.149 51.0708 131.006 51.6105 132.51 52.7299C133.103 53.2805 133.568 53.9545 133.872 54.7044C134.176 55.4543 134.312 56.2618 134.27 57.0699C134.319 57.875 134.189 58.681 133.89 59.4299Z" fill="#FFBF45" />
+        <path id="Vector 30" d="M151.16 42.3198H162.44V82.1798H151.16V42.3198Z" fill="#FFBF45" />
+        <path id="Vector 31" d="M208.409 42.3198V82.1798H198.999L181.519 60.9998V82.2298H170.449V42.3698H179.829L197.419 63.6098V42.3198H208.409Z" fill="#FFBF45" />
+        <path id="Vector 32" d="M269 82.1996V61.0996L258.73 78.3096H253.73L243.53 61.6896V82.2496H233V42.3896H242.38L256.45 65.3896L270.12 42.3896H279.49V82.2496L269 82.1996Z" fill="#FFBF45" />
+        <path id="Vector 33" d="M319.34 73.4798V82.1998H287.34V42.3398H318.62V51.0698H298.49V57.7698H316.22V66.2098H298.49V73.4998L319.34 73.4798Z" fill="#FFBF45" />
       </g>
-      <path id="Vector 35" opacity="0.5" d="M342 39.4854V45L307 0H311.306L342 39.4854Z" fill="#F7F9FF" />
-      <path id="Vector 36" opacity="0.5" d="M88 124V123.488L47 82V88.6437L81.8881 124H88Z" fill="#F7F9FF" />
-      <path id="Vector 37" opacity="0.5" d="M342 59.9828V86L272 0H293.145L342 59.9828Z" fill="#F7F9FF" />
+      <path id="Vector 35" opacity="0.5" d="M342 39.4854V45L307 0H311.306L342 39.4854Z" fill="white" />
+      <path id="Vector 36" opacity="0.5" d="M88 124V123.488L47 82V88.6437L81.8881 124H88Z" fill="white" />
+      <path id="Vector 37" opacity="0.5" d="M342 59.9828V86L272 0H293.145L342 59.9828Z" fill="white" />
     </g>
   <defs>
-    <filter id="filter0_i_420_1953" x="54.1211" y="7.65002" width="281.16" height="109.21" filterUnits="userSpaceOnUse" colorInterpolationFilters="sRGB">
+    <filter id="filter0_i_442_286" x="54.1211" y="7.6499" width="281.16" height="109.21" filterUnits="userSpaceOnUse" colorInterpolationFilters="sRGB">
       <feFlood floodOpacity="0" result="BackgroundImageFix" />
       <feBlend mode="normal" in="SourceGraphic" in2="BackgroundImageFix" result="shape" />
       <feColorMatrix in="SourceAlpha" type="matrix" values="0 0 0 0 0 0 0 0 0 0 0 0 0 0 0 0 0 0 127 0" result="hardAlpha" />
@@ -93,7 +107,7 @@ export const Machine = (props) => {
       <feGaussianBlur stdDeviation="7.5" />
       <feComposite in2="hardAlpha" operator="arithmetic" k2="-1" k3="1" />
       <feColorMatrix type="matrix" values="0 0 0 0 0 0 0 0 0 0 0 0 0 0 0 0 0 0 0.25 0" />
-      <feBlend mode="normal" in2="shape" result="effect1_innerShadow_420_1953" />
+      <feBlend mode="normal" in2="shape" result="effect1_innerShadow_442_286" />
     </filter>
   </defs>
 </svg>

diff --git a/public/styles.css b/public/styles.css
@@ -621,15 +621,15 @@ span {
   color: #fff;
   border: 1px solid white;
   border-radius: 50px;
-  background-color: #00539F;
+  background-color: #244DC2;
   -webkit-transition: 0.5s ease-in-out;
   transition: 0.5s ease-in-out;
 }
 
 .btn-trans {
-  border: 1px solid #00539F;
+  border: 1px solid #244DC2;
   background-color: transparent;
-  color: #00539F;
+  color: #244DC2;
 }
 
 .btn:hover {
@@ -682,7 +682,7 @@ span {
 }
 
 .bg-org {
-  background-color: #00539F;
+  background-color: #244DC2;
   color: white;
   border: 1px solid white;
 }

diff --git a/public/_struct.scss b/public/_struct.scss
@@ -383,13 +383,13 @@
   color: #fff;
   border: 1px solid $wht;
   border-radius: 50px;
-  background-color: #00539F;
+  background-color: #244DC2;
   transition: 0.5s ease-in-out;
 
   &-trans{
-    border: 1px solid #00539F;
+    border: 1px solid #244DC2;
     background-color: transparent;
-    color: #00539F;
+    color: #244DC2;
   }
 
   &:hover {
@@ -439,7 +439,7 @@
     background-repeat: no-repeat;
   }
   &-org {
-    background-color: #00539F;
+    background-color: #244DC2;
     color: white;
     border: 1px solid $wht;
   }
